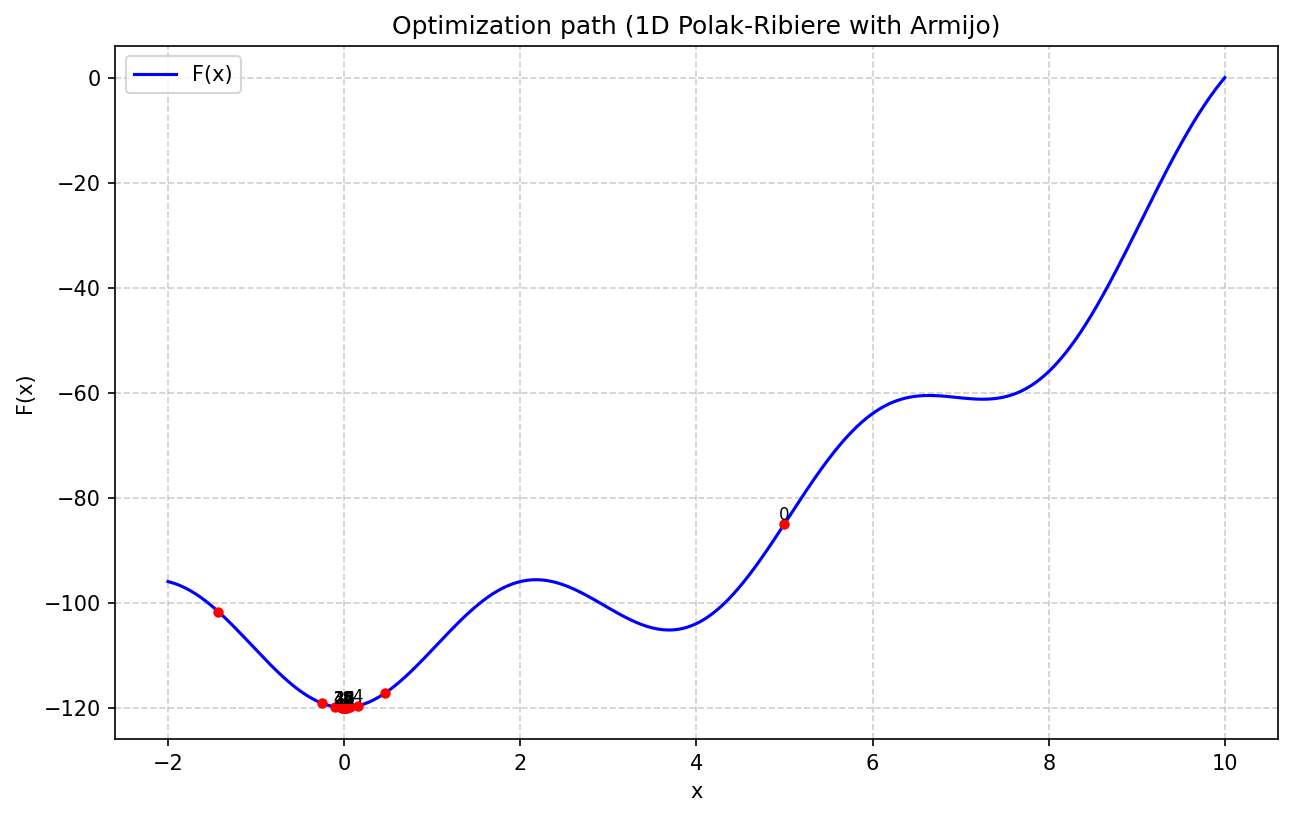
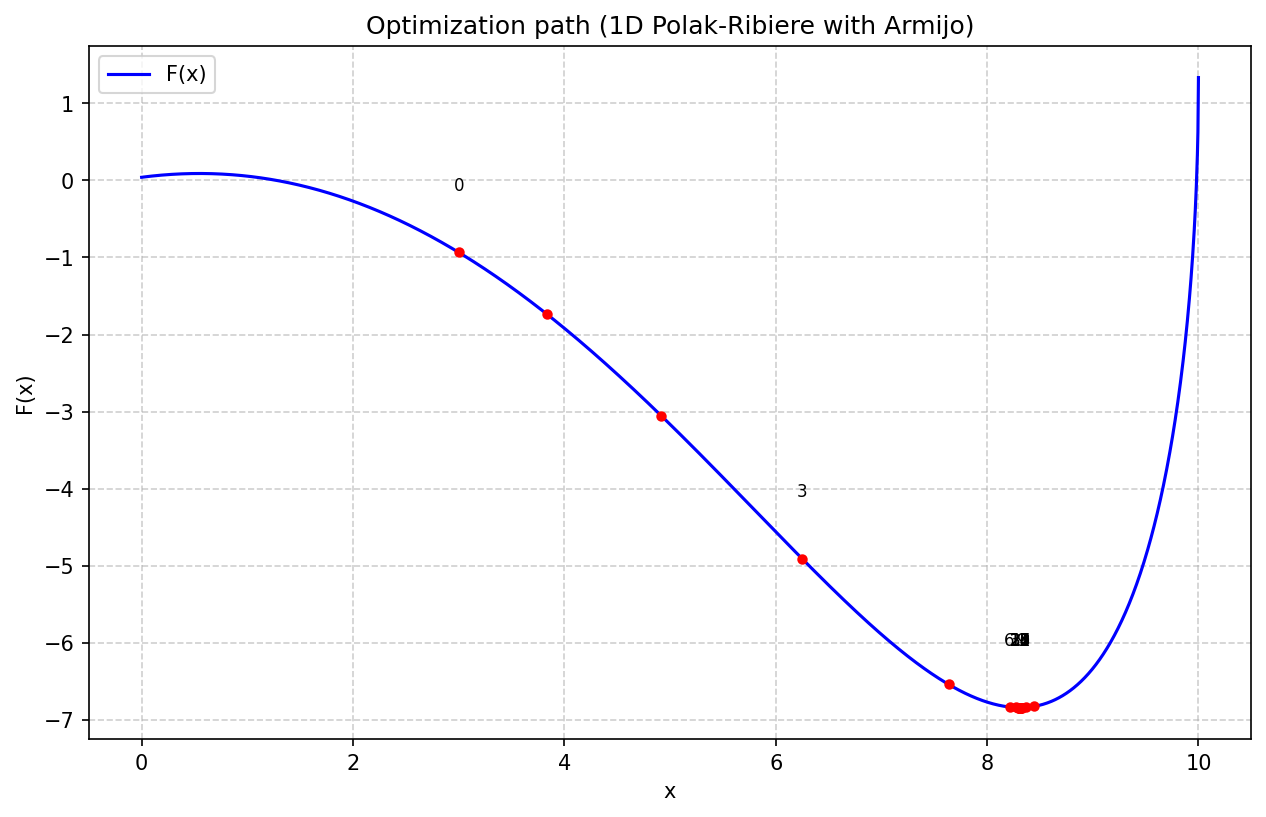
Armijo

diff --git a/28_armijo/pr_1d_armijo.py b/28_armijo/pr_1d_armijo.py
@@ -3,10 +3,10 @@ import matplotlib
 matplotlib.use('Agg')
 import matplotlib.pyplot as plt
 
-def F1(x):
+def F(x):
     return -2 * np.sin(np.sqrt(abs(x / 2 + 10))) - x * np.sin(np.sqrt(abs(x - 10)))
 
-def dF1(x):
+def dF(x):
     """
     Аналитическая производная f1(x).
     Не определена в x = -20 и x = 10 (особые точки из-за abs).
@@ -43,10 +43,10 @@ def dF1(x):
 
     return term1 + term2 + term3
 
-def F(x):
+def F2(x):
     return x ** 2 - 10 * np.cos(0.5 * np.pi * x) - 110
 
-def dF(x):
+def dF2(x):
     """
     Аналитическая производная f2(x) = x^2 - 10*cos(0.5*pi*x) - 110.
     f2'(x) = 2x + 5*pi*sin(0.5*pi*x)
@@ -83,7 +83,7 @@ def prsearch_1d(f, df, x0, tol=1e-6, max_iter=1000):
         p = -g_old  # направление антиградиента
 
         # Подбор шага
-        alpha = armijo_1d(f, df, x, p, a=1.0, c1=0.1, b=0.5)
+        alpha = armijo_1d(f, df, x, p, a=1.0, c1=0.1, b=0.1)
 
         # Обновление точки
         x_new = x + alpha * p
@@ -111,7 +111,7 @@ def prsearch_1d(f, df, x0, tol=1e-6, max_iter=1000):
 def draw_1d(coords, f, flag):
     """Визуализация траектории оптимизации."""
     fig, ax = plt.subplots(figsize=(10, 6))
-    x_vals = np.linspace(-2, 10, 2000)
+    x_vals = np.linspace(0, 10, 2000)
     y_vals = [f(x) for x in x_vals]
     ax.plot(x_vals, y_vals, 'b-', linewidth=1.5, label='F(x)')
 
@@ -133,7 +133,7 @@ def draw_1d(coords, f, flag):
 
 def main():
     print("Optimizing 1D function F(x) using 1D Polak-Ribiere method with Armijo line search")
-    x0 = 5.0  # начальная точка (скаляр!)
+    x0 = 3.0  # начальная точка (скаляр!)
     tol = 1e-6
 
     xmin, fmin, neval, coords = prsearch_1d(F, dF, x0, tol=tol)

diff --git a/28_armijo/armijo.py b/28_armijo/armijo.py
@@ -5,25 +5,17 @@ import matplotlib
 matplotlib.use('Agg')
 import matplotlib.pyplot as plt
 
-def F(x):
-    return -2 * np.sin(np.sqrt(abs(x / 2 + 10))) - x * np.sin(np.sqrt(abs(x - 10)))
-
-
-def dF(x):
-    return (-np.cos(np.sqrt(abs(x / 2 + 10))) * (x / 2 + 10)) / (2 * abs(x / 2 + 10) ** (3 / 2)) - (
-        np.cos(np.sqrt(abs(x - 10))) * (x - 10) * x) / (2 * abs(x - 10) ** (3 / 2)) - np.sin(np.sqrt(abs(x - 10)))
-
 # F_HIMMELBLAU is a Himmelblau function
 # 	v = F_HIMMELBLAU(X)
 #	INPUT ARGUMENTS:
 #	X - is 2x1 vector of input variables
 #	OUTPUT ARGUMENTS:
 #	v is a function value
-'''def fH(X):
+def F(X):
     x = X[0]
     y = X[1]
     v = (x ** 2 + y - 11) ** 2 + (x + y ** 2 - 7) ** 2
-    return v'''
+    return v
 
 
 # DF_HIMMELBLAU is a Himmelblau function derivative
@@ -33,14 +25,14 @@ def dF(x):
 #	OUTPUT ARGUMENTS:
 #	v is a derivative function value
 
-'''def dfH(X):
+def dF(X):
     x = X[0]
     y = X[1]
     v = np.copy(X)
     v[0] = 2 * (x ** 2 + y - 11) * (2 * x) + 2 * (x + y ** 2 - 7)
     v[1] = 2 * (x ** 2 + y - 11) + 2 * (x + y ** 2 - 7) * (2 * y)
 
-    return v'''
+    return v
 
 
 # F_ROSENBROCK is a Rosenbrock function
